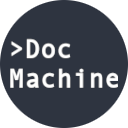
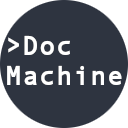
Patch 1.0.3

Changed region(s): [[0.0312, 0.5, 0.6562, 0.6875], [0.0625, 0.25, 0.5625, 0.4688], [0.6875, 0.5312, 0.9688, 0.6875]]

diff --git a/CHANGELOG.md b/CHANGELOG.md
@@ -1,5 +1,9 @@
 # Change Log
 
+## [1.0.3]
+### Changed
+- New icon
+
 ## [1.0.2]
 ### Changed
 - New icon
